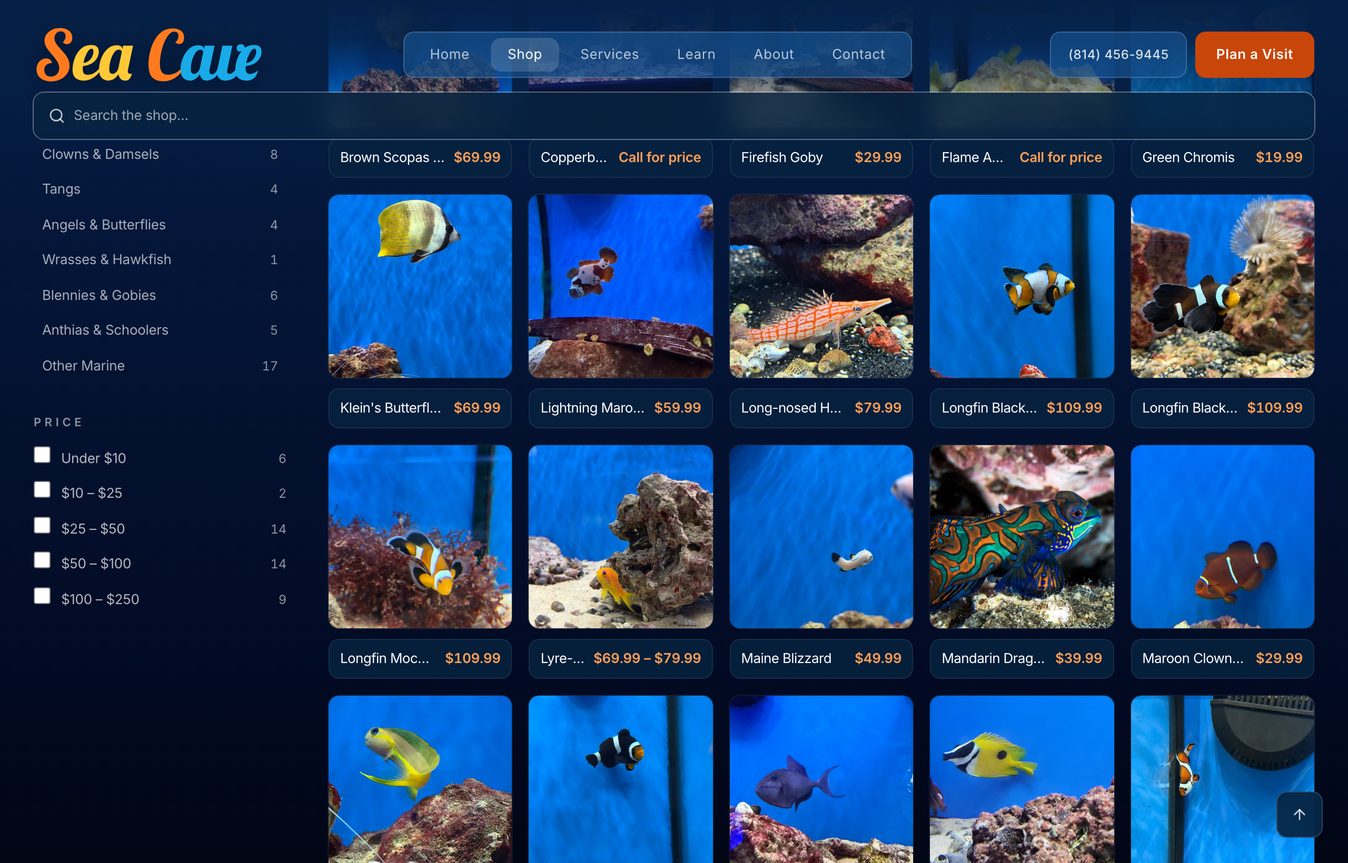
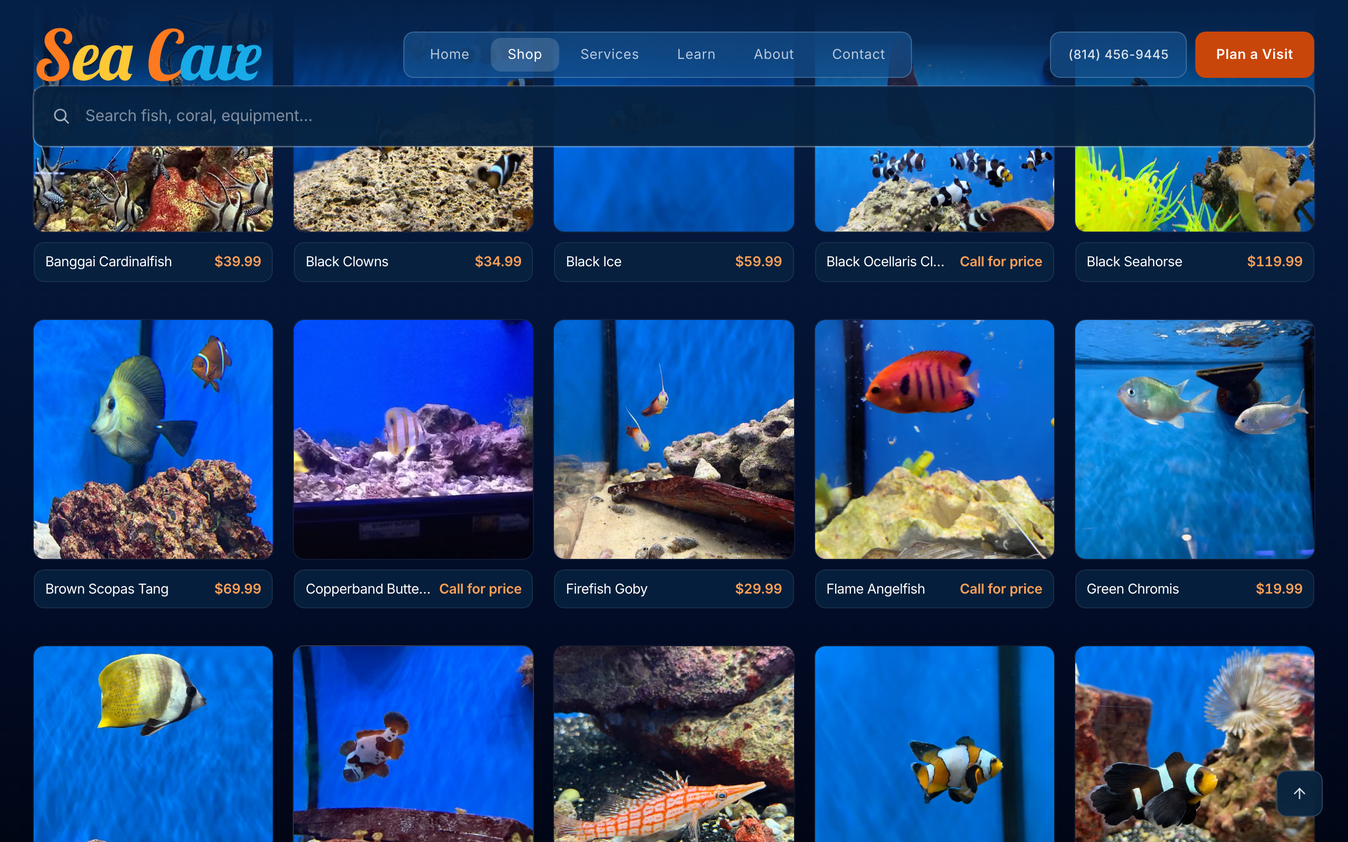
feat: put every site screenshot in a device frame
Bare captures on the proof wall and in How it works read as pictures of
pages. The same shots inside a MacBook and an iPhone read as things that
exist and that a customer is holding — and half these sites are dark, so
on the dark proof band a flat capture had nothing to separate it from the
ground at all.

Shots recaptured at the sizes the frames expect (1280x800 desktop, 390x844
phone); anything else gets cropped by object-cover. Sea Cave's catalog
count corrected to 880+ against the live 884.

Standing rule as of today, so it is enforced rather than remembered:
design-audit gains SHOT-NEEDS-DEVICE-FRAME, which fails the gate on an
<Image> whose src is a screenshot path or a shot variable in a file that
imports no frame component. Falsified both ways. file-lacks checks now
honour skipFiles, which they silently ignored before.

Claude-Session: https://claude.ai/code/session_01QfgbeVKtE4gjPXmAf8U9fG

diff --git a/src/components/sections/HowItWorks.tsx b/src/components/sections/HowItWorks.tsx
@@ -1,5 +1,5 @@
-import Image from 'next/image';
 import AnimateIn from '@/components/ui/AnimateIn';
+import DeviceDuo from '@/components/ui/DeviceDuo';
 
 /**
  * HowItWorks — what replaced "What I do". That section was a capability menu,
@@ -10,6 +10,12 @@ import AnimateIn from '@/components/ui/AnimateIn';
  * a real screenshot of a real catalog rather than a paragraph — the pictures
  * are from Sea Cave's live store, which is why they show real prices and a
  * real stock line.
+ *
+ * SITE SHOTS ALWAYS GO IN A DEVICE FRAME (Tom, 2026-09-01). A bare screenshot
+ * reads as a picture of a page; the same shot in a laptop and a phone reads as
+ * a thing that exists and that a customer is holding. Desktop captures are
+ * 1280×800 and phone captures 390×844 because that is what MacBookFrame and
+ * PhoneFrame expect — anything else gets cropped by object-cover.
  */
 
 const STEPS = [
@@ -22,19 +28,21 @@ const STEPS = [
     n: '02',
     title: 'It becomes something people can browse',
     body: 'Categories, prices, a search box, filters that work. Somebody who lands on it can find what they came for in a few seconds, on a phone, standing in a parking lot.',
-    image: {
-      src: '/images/how/catalog-grid.png',
-      alt: "Sea Cave's online store: rows of fish with prices, category counts down the left, and price filters",
-      caption: 'The live store at seacaveinc.com',
+    device: {
+      shot: '/images/how/catalog-grid.png',
+      phoneShot: '/images/how/catalog-grid-phone.png',
+      name: "Sea Cave's shop — rows of fish, each with its own price",
+      caption: 'seacaveinc.com/shop, live',
     },
   },
   {
     n: '03',
     title: 'Every item gets its own page',
     body: 'A name, a photo, a description, a price, and whether it is in stock. All of it written out in the structure Google reads. That is the part that puts the item in search results and in Google Shopping instead of leaving it buried inside a page about your business.',
-    image: {
-      src: '/images/how/catalog-item.png',
-      alt: 'A single Sea Cave product page: photo, description, $12.99, and an in-stock line',
+    device: {
+      shot: '/images/how/catalog-item.png',
+      phoneShot: '/images/how/catalog-item-phone.png',
+      name: 'One Sea Cave item: photo, description, $39.99, and an in-stock line',
       caption: 'One item, one page, one price',
     },
   },
@@ -76,21 +84,16 @@ export default function HowItWorks() {
                     {step.body}
                   </p>
 
-                  {step.image && (
-                    <figure className="mt-7">
-                      <div className="overflow-hidden rounded-lg border border-border-default bg-surface-sunken">
-                        <Image
-                          src={step.image.src}
-                          alt={step.image.alt}
-                          width={2560}
-                          height={1640}
-                          sizes="(min-width: 1024px) 720px, 100vw"
-                          className="w-full"
-                        />
-                      </div>
-                      <figcaption className="mt-2 font-mono text-[11px] text-text-tertiary">
+                  {step.device && (
+                    <figure className="mt-9">
+                      <DeviceDuo
+                        shot={step.device.shot}
+                        phoneShot={step.device.phoneShot}
+                        name={step.device.name}
+                      />
+                      <figcaption className="mt-3 font-mono text-[11px] text-text-tertiary">
                         <span aria-hidden className="text-accent/60">{'// '}</span>
-                        {step.image.caption}
+                        {step.device.caption}
                       </figcaption>
                     </figure>
                   )}

diff --git a/src/data/proof.ts b/src/data/proof.ts
@@ -2,11 +2,11 @@
  * The proof wall. Four live sites, filed by what got put into a catalog, so
  * they read as one mechanic at four scales rather than four unrelated jobs.
  *
- * `quote` only appears where a real one exists. There is one — Gary Paparelli's
- * public Google review of Stray Web Design, left 22 April 2026, which covers
- * both of his bars. Sea Cave's and Presque Isle's have been asked for and have
- * not arrived, so those two show the work without a quote. A placeholder in a
- * quote slot reads as a missing quote, which is worse than no slot at all.
+ * `quote` only appears where a real one exists. There is one: a public Google
+ * review of Stray Web Design left on 22 April 2026 by the owner of both bars.
+ * Sea Cave's and Presque Isle's have been asked for and have not arrived, so
+ * those two show the work without a quote. A placeholder in a quote slot reads
+ * as a missing quote, which is worse than no slot at all.
  */
 
 export interface ProofItem {
@@ -15,7 +15,10 @@ export interface ProofItem {
   readonly catalogued: string;
   readonly url: string;
   readonly displayUrl: string;
+  /** Desktop screenshot, 1280×800 — the size MacBookFrame expects. */
   readonly shot: string;
+  /** Phone screenshot, 390×844 — the size PhoneFrame expects. */
+  readonly phoneShot: string;
   readonly quote?: {
     /** Verbatim. Never tidied, never paraphrased. */
     readonly text: string;
@@ -45,6 +48,7 @@ export const PROOF: readonly ProofItem[] = [
     url: 'https://andyspub.com',
     displayUrl: 'andyspub.com',
     shot: '/images/work/andys.png',
+    phoneShot: '/images/work/phone/andys.png',
     quote: OWNER,
   },
   {
@@ -53,13 +57,15 @@ export const PROOF: readonly ProofItem[] = [
     url: 'https://bullfrogbarerie.com',
     displayUrl: 'bullfrogbarerie.com',
     shot: '/images/work/bullfrog.png',
+    phoneShot: '/images/work/phone/bullfrog.png',
   },
   {
     name: 'Sea Cave',
-    catalogued: '600+ products, with live stock and pricing they update themselves',
+    catalogued: '880+ products, with live stock and pricing they update themselves',
     url: 'https://seacaveinc.com',
     displayUrl: 'seacaveinc.com',
     shot: '/images/work/seacave.png',
+    phoneShot: '/images/work/phone/seacave.png',
   },
   {
     name: 'Presque Isle Fish & Farm',
@@ -67,5 +73,6 @@ export const PROOF: readonly ProofItem[] = [
     url: 'https://presqueislefishandfarm.com',
     displayUrl: 'presqueislefishandfarm.com',
     shot: '/images/work/presque-isle.png',
+    phoneShot: '/images/work/phone/presque-isle.png',
   },
 ];

diff --git a/src/components/sections/Proof.tsx b/src/components/sections/Proof.tsx
@@ -1,15 +1,19 @@
-import Image from 'next/image';
 import AnimateIn from '@/components/ui/AnimateIn';
+import DeviceDuo from '@/components/ui/DeviceDuo';
 import { PROOF } from '@/data/proof';
 
 /**
  * Proof — the four live sites, filed by what got catalogued so they read as
- * one mechanic at four scales. Gary's review runs across the top because it is
+ * one mechanic at four scales. The review runs across the top because it is
  * the only real quote there is, and a real one from a bar owner beats four
  * invented ones from anybody.
  *
  * Dark band. Ink comes from the --ink-dark-* tokens, which are measured
  * against this ground rather than eyeballed.
+ *
+ * Every shot sits in a laptop-and-phone frame (Tom's standing rule, 2026-09-01)
+ * — a bare screenshot on a dark ground reads as a flat picture, and half of
+ * these sites are dark themselves so they vanish into it entirely.
  */
 
 const FEATURED = PROOF.find((p) => p.quote);
@@ -58,17 +62,12 @@ export default function Proof() {
                   rel="noopener noreferrer"
                   className="group flex h-full flex-col p-6 transition-colors hover:bg-white/[0.04] md:p-8"
                 >
-                  <div className="overflow-hidden rounded border border-white/10">
-                    <Image
-                      src={item.shot}
-                      alt={`${item.name} — the live site`}
-                      width={1280}
-                      height={800}
-                      sizes="(min-width: 768px) 520px, 100vw"
-                      className="w-full"
-                    />
-                  </div>
-                  <h3 className="mt-6 font-display text-lg font-semibold tracking-tight text-ink-dark-primary md:text-xl">
+                  <DeviceDuo
+                    shot={item.shot}
+                    phoneShot={item.phoneShot}
+                    name={item.name}
+                  />
+                  <h3 className="mt-4 font-display text-lg font-semibold tracking-tight text-ink-dark-primary md:text-xl">
                     {item.name}
                   </h3>
                   <p className="mt-2 font-body text-[15px] leading-relaxed text-ink-dark-secondary">
